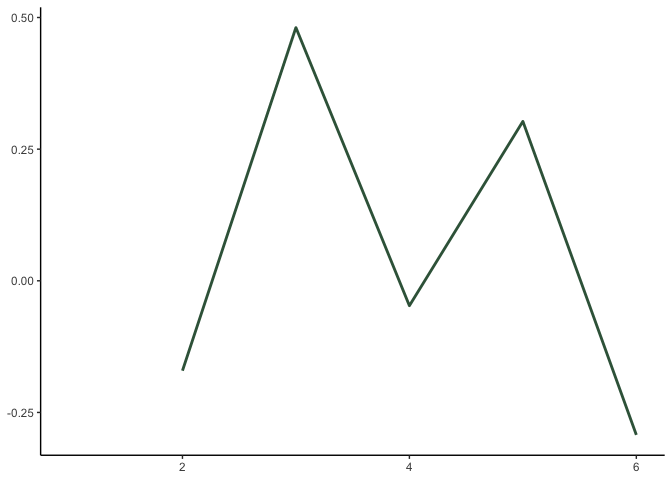
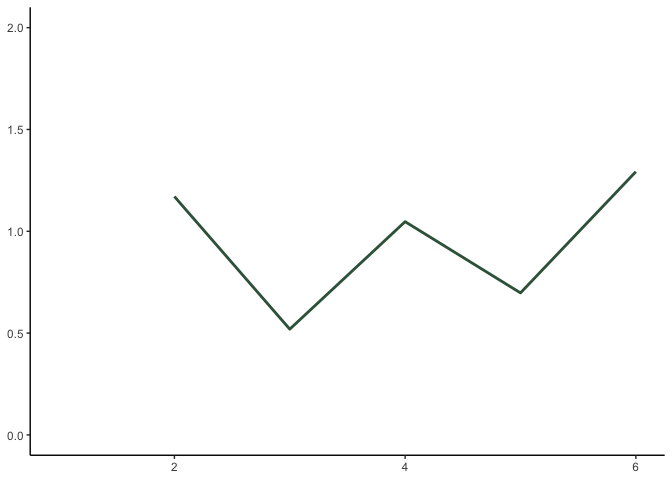
add flipped cosine to vignettee

diff --git a/docs/articles/BigramSemanticDistance-vignette.html b/docs/articles/BigramSemanticDistance-vignette.html
@@ -64,7 +64,7 @@
       <img src="" class="logo" alt=""><h1>BigramSemanticDistance-vignette</h1>
                         <h4 data-toc-skip class="author">Bonnie Zuckerman &amp; Jamie Reilly</h4>
             
-            <h4 data-toc-skip class="date">2022-03-02</h4>
+            <h4 data-toc-skip class="date">2022-03-24</h4>
       
       
       <div class="d-none name"><code>BigramSemanticDistance-vignette.Rmd</code></div>
@@ -73,38 +73,47 @@
     
     
 <div class="sourceCode" id="cb1"><pre class="sourceCode r"><code class="sourceCode r"><span id="cb1-1"><a href="#cb1-1" aria-hidden="true" tabindex="-1"></a>remotes<span class="sc">::</span><span class="fu">install_github</span>(<span class="st">"Reilly-ConceptsCognitionLab/semdistflow"</span>)</span>
-<span id="cb1-2"><a href="#cb1-2" aria-hidden="true" tabindex="-1"></a><span class="co">#&gt; </span></span>
-<span id="cb1-3"><a href="#cb1-3" aria-hidden="true" tabindex="-1"></a><span class="co">#&gt;   </span></span>
-<span id="cb1-4"><a href="#cb1-4" aria-hidden="true" tabindex="-1"></a>   checking <span class="cf">for</span> file ‘<span class="sc">/</span>private<span class="sc">/</span>var<span class="sc">/</span>folders<span class="sc">/</span>g0<span class="sc">/</span>mjy7jjt50v3cgv592cnt1pw40000gn<span class="sc">/</span>T<span class="sc">/</span>RtmpdJYAHR<span class="sc">/</span>remotes12cf64f6756f<span class="sc">/</span>Reilly<span class="sc">-</span>ConceptsCognitionLab<span class="sc">-</span>semdistflow<span class="sc">-</span>f88fe4f<span class="sc">/</span>DESCRIPTION’ ...</span>
-<span id="cb1-5"><a href="#cb1-5" aria-hidden="true" tabindex="-1"></a>  </span>
-<span id="cb1-6"><a href="#cb1-6" aria-hidden="true" tabindex="-1"></a> [32m✓ [39m   [<span class="dv">38</span>;<span class="dv">5</span>;247mchecking <span class="cf">for</span> file ‘<span class="sc">/</span>private<span class="sc">/</span>var<span class="sc">/</span>folders<span class="sc">/</span>g0<span class="sc">/</span>mjy7jjt50v3cgv592cnt1pw40000gn<span class="sc">/</span>T<span class="sc">/</span>RtmpdJYAHR<span class="sc">/</span>remotes12cf64f6756f<span class="sc">/</span>Reilly<span class="sc">-</span>ConceptsCognitionLab<span class="sc">-</span>semdistflow<span class="sc">-</span>f88fe4f<span class="sc">/</span>DESCRIPTION’ [39m [36m [36m (509ms) [36m [39m</span>
-<span id="cb1-7"><a href="#cb1-7" aria-hidden="true" tabindex="-1"></a><span class="co">#&gt; </span></span>
-<span id="cb1-8"><a href="#cb1-8" aria-hidden="true" tabindex="-1"></a>  </span>
-<span id="cb1-9"><a href="#cb1-9" aria-hidden="true" tabindex="-1"></a> [<span class="dv">38</span>;<span class="dv">5</span>;247m─ [39m [<span class="dv">38</span>;<span class="dv">5</span>;247m   [39m [<span class="dv">38</span>;<span class="dv">5</span>;247mpreparing ‘semdistflow’<span class="sc">:</span> [39m [36m [39m</span>
-<span id="cb1-10"><a href="#cb1-10" aria-hidden="true" tabindex="-1"></a><span class="co">#&gt;    checking DESCRIPTION meta-information ...</span></span>
-<span id="cb1-11"><a href="#cb1-11" aria-hidden="true" tabindex="-1"></a>  </span>
-<span id="cb1-12"><a href="#cb1-12" aria-hidden="true" tabindex="-1"></a> [32m✓ [39m   [<span class="dv">38</span>;<span class="dv">5</span>;247mchecking DESCRIPTION meta<span class="sc">-</span>information [39m [36m [39m</span>
-<span id="cb1-13"><a href="#cb1-13" aria-hidden="true" tabindex="-1"></a><span class="co">#&gt; </span></span>
+<span id="cb1-2"><a href="#cb1-2" aria-hidden="true" tabindex="-1"></a><span class="co">#&gt; sass    (0.4.0 -&gt; 0.4.1) [CRAN]</span></span>
+<span id="cb1-3"><a href="#cb1-3" aria-hidden="true" tabindex="-1"></a><span class="co">#&gt; fansi   (1.0.2 -&gt; 1.0.3) [CRAN]</span></span>
+<span id="cb1-4"><a href="#cb1-4" aria-hidden="true" tabindex="-1"></a><span class="co">#&gt; jmvcore (2.2   -&gt; 2.3.3) [CRAN]</span></span>
+<span id="cb1-5"><a href="#cb1-5" aria-hidden="true" tabindex="-1"></a><span class="co">#&gt; </span></span>
+<span id="cb1-6"><a href="#cb1-6" aria-hidden="true" tabindex="-1"></a><span class="co">#&gt;   There are binary versions available but the source versions are later:</span></span>
+<span id="cb1-7"><a href="#cb1-7" aria-hidden="true" tabindex="-1"></a><span class="co">#&gt;         binary source needs_compilation</span></span>
+<span id="cb1-8"><a href="#cb1-8" aria-hidden="true" tabindex="-1"></a><span class="co">#&gt; sass     0.4.0  0.4.1              TRUE</span></span>
+<span id="cb1-9"><a href="#cb1-9" aria-hidden="true" tabindex="-1"></a><span class="co">#&gt; fansi    1.0.2  1.0.3              TRUE</span></span>
+<span id="cb1-10"><a href="#cb1-10" aria-hidden="true" tabindex="-1"></a><span class="co">#&gt; jmvcore    2.2  2.3.3             FALSE</span></span>
+<span id="cb1-11"><a href="#cb1-11" aria-hidden="true" tabindex="-1"></a><span class="co">#&gt; </span></span>
+<span id="cb1-12"><a href="#cb1-12" aria-hidden="true" tabindex="-1"></a><span class="co">#&gt;   </span></span>
+<span id="cb1-13"><a href="#cb1-13" aria-hidden="true" tabindex="-1"></a>   checking <span class="cf">for</span> file ‘<span class="sc">/</span>private<span class="sc">/</span>var<span class="sc">/</span>folders<span class="sc">/</span>g0<span class="sc">/</span>mjy7jjt50v3cgv592cnt1pw40000gn<span class="sc">/</span>T<span class="sc">/</span>Rtmpz2fjsT<span class="sc">/</span>remotes50de68b3d2b6<span class="sc">/</span>Reilly<span class="sc">-</span>ConceptsCognitionLab<span class="sc">-</span>semdistflow<span class="sc">-</span>d8ee258<span class="sc">/</span>DESCRIPTION’ ...</span>
 <span id="cb1-14"><a href="#cb1-14" aria-hidden="true" tabindex="-1"></a>  </span>
-<span id="cb1-15"><a href="#cb1-15" aria-hidden="true" tabindex="-1"></a> [<span class="dv">38</span>;<span class="dv">5</span>;247m─ [39m [<span class="dv">38</span>;<span class="dv">5</span>;247m   [39m [<span class="dv">38</span>;<span class="dv">5</span>;247mchecking <span class="cf">for</span> LF line<span class="sc">-</span>endings <span class="cf">in</span> source and make files and shell scripts [39m [36m [39m</span>
+<span id="cb1-15"><a href="#cb1-15" aria-hidden="true" tabindex="-1"></a> [32m✓ [39m   [<span class="dv">38</span>;<span class="dv">5</span>;247mchecking <span class="cf">for</span> file ‘<span class="sc">/</span>private<span class="sc">/</span>var<span class="sc">/</span>folders<span class="sc">/</span>g0<span class="sc">/</span>mjy7jjt50v3cgv592cnt1pw40000gn<span class="sc">/</span>T<span class="sc">/</span>Rtmpz2fjsT<span class="sc">/</span>remotes50de68b3d2b6<span class="sc">/</span>Reilly<span class="sc">-</span>ConceptsCognitionLab<span class="sc">-</span>semdistflow<span class="sc">-</span>d8ee258<span class="sc">/</span>DESCRIPTION’ [39m [36m [36m (403ms) [36m [39m</span>
 <span id="cb1-16"><a href="#cb1-16" aria-hidden="true" tabindex="-1"></a><span class="co">#&gt; </span></span>
 <span id="cb1-17"><a href="#cb1-17" aria-hidden="true" tabindex="-1"></a>  </span>
-<span id="cb1-18"><a href="#cb1-18" aria-hidden="true" tabindex="-1"></a> [<span class="dv">38</span>;<span class="dv">5</span>;247m─ [39m [<span class="dv">38</span>;<span class="dv">5</span>;247m   [39m [<span class="dv">38</span>;<span class="dv">5</span>;247mchecking <span class="cf">for</span> empty or unneeded directories [39m [36m [39m</span>
-<span id="cb1-19"><a href="#cb1-19" aria-hidden="true" tabindex="-1"></a><span class="co">#&gt; </span></span>
+<span id="cb1-18"><a href="#cb1-18" aria-hidden="true" tabindex="-1"></a> [<span class="dv">38</span>;<span class="dv">5</span>;247m─ [39m [<span class="dv">38</span>;<span class="dv">5</span>;247m   [39m [<span class="dv">38</span>;<span class="dv">5</span>;247mpreparing ‘semdistflow’<span class="sc">:</span> [39m [36m [39m</span>
+<span id="cb1-19"><a href="#cb1-19" aria-hidden="true" tabindex="-1"></a><span class="co">#&gt;    checking DESCRIPTION meta-information ...</span></span>
 <span id="cb1-20"><a href="#cb1-20" aria-hidden="true" tabindex="-1"></a>  </span>
-<span id="cb1-21"><a href="#cb1-21" aria-hidden="true" tabindex="-1"></a> [<span class="dv">38</span>;<span class="dv">5</span>;247m─ [39m [<span class="dv">38</span>;<span class="dv">5</span>;247m   [39m [<span class="dv">38</span>;<span class="dv">5</span>;247mbuilding ‘semdistflow_0.<span class="dv">1</span>.<span class="fl">0.</span>tar.gz’ [39m [36m [39m</span>
+<span id="cb1-21"><a href="#cb1-21" aria-hidden="true" tabindex="-1"></a> [32m✓ [39m   [<span class="dv">38</span>;<span class="dv">5</span>;247mchecking DESCRIPTION meta<span class="sc">-</span>information [39m [36m [39m</span>
 <span id="cb1-22"><a href="#cb1-22" aria-hidden="true" tabindex="-1"></a><span class="co">#&gt; </span></span>
 <span id="cb1-23"><a href="#cb1-23" aria-hidden="true" tabindex="-1"></a>  </span>
-<span id="cb1-24"><a href="#cb1-24" aria-hidden="true" tabindex="-1"></a>   </span>
+<span id="cb1-24"><a href="#cb1-24" aria-hidden="true" tabindex="-1"></a> [<span class="dv">38</span>;<span class="dv">5</span>;247m─ [39m [<span class="dv">38</span>;<span class="dv">5</span>;247m   [39m [<span class="dv">38</span>;<span class="dv">5</span>;247mchecking <span class="cf">for</span> LF line<span class="sc">-</span>endings <span class="cf">in</span> source and make files and shell scripts [39m [36m [39m</span>
 <span id="cb1-25"><a href="#cb1-25" aria-hidden="true" tabindex="-1"></a><span class="co">#&gt; </span></span>
-<span id="cb1-26"><a href="#cb1-26" aria-hidden="true" tabindex="-1"></a><span class="fu">library</span>(semdistflow)</span>
-<span id="cb1-27"><a href="#cb1-27" aria-hidden="true" tabindex="-1"></a><span class="fu">library</span>(tidytext)</span>
-<span id="cb1-28"><a href="#cb1-28" aria-hidden="true" tabindex="-1"></a><span class="fu">library</span>(tidyverse)</span>
-<span id="cb1-29"><a href="#cb1-29" aria-hidden="true" tabindex="-1"></a><span class="fu">library</span>(knitr)</span>
-<span id="cb1-30"><a href="#cb1-30" aria-hidden="true" tabindex="-1"></a><span class="fu">library</span>(kableExtra)</span>
-<span id="cb1-31"><a href="#cb1-31" aria-hidden="true" tabindex="-1"></a><span class="fu">library</span>(stringr)</span>
-<span id="cb1-32"><a href="#cb1-32" aria-hidden="true" tabindex="-1"></a><span class="fu">library</span>(zoo)</span>
-<span id="cb1-33"><a href="#cb1-33" aria-hidden="true" tabindex="-1"></a><span class="fu">library</span>(stringi)</span></code></pre></div>
+<span id="cb1-26"><a href="#cb1-26" aria-hidden="true" tabindex="-1"></a>  </span>
+<span id="cb1-27"><a href="#cb1-27" aria-hidden="true" tabindex="-1"></a> [<span class="dv">38</span>;<span class="dv">5</span>;247m─ [39m [<span class="dv">38</span>;<span class="dv">5</span>;247m   [39m [<span class="dv">38</span>;<span class="dv">5</span>;247mchecking <span class="cf">for</span> empty or unneeded directories [39m [36m [39m</span>
+<span id="cb1-28"><a href="#cb1-28" aria-hidden="true" tabindex="-1"></a><span class="co">#&gt; </span></span>
+<span id="cb1-29"><a href="#cb1-29" aria-hidden="true" tabindex="-1"></a>  </span>
+<span id="cb1-30"><a href="#cb1-30" aria-hidden="true" tabindex="-1"></a> [<span class="dv">38</span>;<span class="dv">5</span>;247m─ [39m [<span class="dv">38</span>;<span class="dv">5</span>;247m   [39m [<span class="dv">38</span>;<span class="dv">5</span>;247mbuilding ‘semdistflow_0.<span class="dv">1</span>.<span class="fl">0.</span>tar.gz’ [39m [36m [39m</span>
+<span id="cb1-31"><a href="#cb1-31" aria-hidden="true" tabindex="-1"></a><span class="co">#&gt; </span></span>
+<span id="cb1-32"><a href="#cb1-32" aria-hidden="true" tabindex="-1"></a>  </span>
+<span id="cb1-33"><a href="#cb1-33" aria-hidden="true" tabindex="-1"></a>   </span>
+<span id="cb1-34"><a href="#cb1-34" aria-hidden="true" tabindex="-1"></a><span class="co">#&gt; </span></span>
+<span id="cb1-35"><a href="#cb1-35" aria-hidden="true" tabindex="-1"></a><span class="fu">library</span>(semdistflow)</span>
+<span id="cb1-36"><a href="#cb1-36" aria-hidden="true" tabindex="-1"></a><span class="fu">library</span>(tidytext)</span>
+<span id="cb1-37"><a href="#cb1-37" aria-hidden="true" tabindex="-1"></a><span class="fu">library</span>(tidyverse)</span>
+<span id="cb1-38"><a href="#cb1-38" aria-hidden="true" tabindex="-1"></a><span class="fu">library</span>(knitr)</span>
+<span id="cb1-39"><a href="#cb1-39" aria-hidden="true" tabindex="-1"></a><span class="fu">library</span>(kableExtra)</span>
+<span id="cb1-40"><a href="#cb1-40" aria-hidden="true" tabindex="-1"></a><span class="fu">library</span>(stringr)</span>
+<span id="cb1-41"><a href="#cb1-41" aria-hidden="true" tabindex="-1"></a><span class="fu">library</span>(zoo)</span>
+<span id="cb1-42"><a href="#cb1-42" aria-hidden="true" tabindex="-1"></a><span class="fu">library</span>(stringi)</span></code></pre></div>
 <div class="section level2">
 <h2 id="preparing-your-texts">Preparing your texts<a class="anchor" aria-label="anchor" href="#preparing-your-texts"></a>
 </h2>
@@ -122,8 +131,8 @@
 <span class="va">mytextsinfolder</span> <span class="op">&lt;-</span> <span class="fu"><a href="../reference/readtxt.html">readtxt</a></span><span class="op">(</span><span class="st">"./your-text-folder"</span><span class="op">)</span> <span class="co">#reads all texts in a given folder in the working directory </span></code></pre></div>
 <p>The resulting data.frame should have two columns “doc_id” and “doc_text”.</p>
 <pre><code><span class="co">#&gt;                                                                                                                                       doc_id</span>
-<span class="co">#&gt; 1 /private/var/folders/g0/mjy7jjt50v3cgv592cnt1pw40000gn/T/RtmpGGgozS/temp_libpathc972d350c55/semdistflow/extdata/Blake_BookofThel_part1.txt</span>
-<span class="co">#&gt; 2                /private/var/folders/g0/mjy7jjt50v3cgv592cnt1pw40000gn/T/RtmpGGgozS/temp_libpathc972d350c55/semdistflow/extdata/sticks2.txt</span>
+<span class="co">#&gt; 1 /private/var/folders/g0/mjy7jjt50v3cgv592cnt1pw40000gn/T/Rtmp0ZiBYT/temp_libpath4f755aed467/semdistflow/extdata/Blake_BookofThel_part1.txt</span>
+<span class="co">#&gt; 2                /private/var/folders/g0/mjy7jjt50v3cgv592cnt1pw40000gn/T/Rtmp0ZiBYT/temp_libpath4f755aed467/semdistflow/extdata/sticks2.txt</span>
 <span class="co">#&gt;                                                                                                                                                                                                                                                                                                                                                                                                                                                                                                                                                                                                                                                                                                                                                                                                                                                                                                                                                                                                                                                                                                                                                                                                                                                                                                                                                                                                                                                                                                                                                                                                                                                                                                                                                                                                                                                                                                                                                                                                                                                                                                                                                                                                                                                                                                                                                                                                                                                                                                                                                                                                                                                                                          doc_text</span>
 <span class="co">#&gt; 1 The daughters of Mne Seraphim led round their sunny flocks. All but the youngest; she in paleness sought the secret air.  To fade away like morning beauty from her mortal day:  Down by the river of Adona her soft voice is heard:  And thus her gentle lamentation falls like morning dew.   O life of this our spring! why fades the lotus of the water? Why fade these children of the spring? born but to smile &amp; fall.  Ah! Thel is like a watry bow. and like a parting cloud.  Like a reflection in a glass. like shadows in the water.  Like dreams of infants. like a smile upon an infants face, Like the doves voice, like transient day, like music in the air;  Ah! gentle may I lay me down, and gentle rest my head, And gentle sleep the sleep of death. and gentle hear the voice Of him that walketh in the garden in the evening time.  The Lilly of the valley breathing in the humble grass Answer'd the lovely maid and said: I am a watry weed, And I am very small, and love to dwell in lowly vales; So weak, the gilded butterfly scarce perches on my head.  Yet I am visited from heaven and he that smiles on all.  Walks in the valley. and each morn over me spreads his hand  Saying, rejoice thou humble grass, thou new-born lilly flower, Thou gentle maid of silent valleys. and of modest brooks; For thou shalt be clothed in light, and fed with morning manna:  Till summers heat melts thee beside the fountains and the springs To flourish in eternal vales: then why should Thel complain,   Why should the mistress of the vales of Har, utter a sigh.   She ceasd &amp; smild in tears, then sat down in her silver shrine.  Thel answered. O thou little virgin of the peaceful valley.  Giving to those that cannot crave, the voiceless, the o'ertired.  Thy breath doth nourish the innocent lamb, he smells thy milky garments, He crops thy flowers. while thou sittest smiling in his face, Wiping his mild and meekin mouth from all contagious taints. Thy wine doth purify the golden honey, thy perfume, Which thou dost scatter on every little blade of grass that springs, Revives the milked cow, &amp; tames the fire-breathing steed. But Thel is like a faint cloud kindled at the rising sun: I vanish from my pearly throne, and who shall find my place?"  "Queen of the vales," the Lily answered, "ask the tender cloud, And it shall tell thee why it glitters in the morning sky, And why it scatters its bright beauty thro' the humid air. Descend, O little cloud, &amp; hover before the eyes of Thel."  The Cloud descended, and the Lily bowd her modest head, And went to mind her numerous charge among the verdant grass.</span>
 <span class="co">#&gt; 2                                                                                                                                                                                                                                                                                                                                                                                                                                                                                                                                          Every year Thanksgiving night we flocked out behind Dad as he dragged the Santa suit to the road and draped it over a kind of crucifix he'd built out of metal pole in the yard. Super Bowl week the pole was dressed in a jersey and Rod's helmet and Rod had to clear it with Dad if he wanted to take the helmet off. On the Fourth of July the pole was Uncle Sam, on Veteran’s Day a soldier,  on Halloween a ghost. The pole was Dad's only concession to glee. We were allowed a single Crayola from the box at a time. One Christmas Eve he shrieked at Kimmie for wasting an apple slice. He hovered over us as we poured ketchup saying: good enough good enough good enough. Birthday parties consisted of cupcakes, no ice cream. The first time I brought a date over she said: what's with your dad and that pole? and I sat there blinking. We left home, married,  had children of our own, found the seeds of meanness blooming also within us. Dad began dressing the pole with more complexity and less discernible logic. He draped some kind of fur over it on Groundhog Day and lugged out a floodlight to ensure a shadow. When an earthquake struck Chile he lay the pole on its side and spray painted a rift in the earth. Mom died and he dressed the pole as Death and hung from the crossbar photos of Mom as a baby. We'd stop by and find odd talismans from his youth arranged around the base: army medals, theater tickets, old sweatshirts, tubes of Mom's makeup. One autumn he painted the pole bright yellow. He covered it with cotton swabs that winter for warmth and provided offspring by hammering in six crossed sticks around the yard. He ran lengths of string between the pole and the sticks, and taped to the string letters of apology, admissions of error, pleas for understanding, all written in a frantic hand on index cards. He painted a sign saying LOVE and hung it from the pole and another that said FORGIVE? and then he died in the hall with the radio on and we sold the house to a young couple who yanked out the pole and the sticks and left them by the road on garbage day.</span></code></pre>
@@ -161,12 +170,12 @@
 <span class="co">#&gt; <span style="color: #949494;"># Groups:   doc_id [1]</span></span>
 <span class="co">#&gt;   doc_id                                                             word  lemma</span>
 <span class="co">#&gt;   <span style="color: #949494; font-style: italic;">&lt;chr&gt;</span>                                                              <span style="color: #949494; font-style: italic;">&lt;chr&gt;</span> <span style="color: #949494; font-style: italic;">&lt;chr&gt;</span></span>
-<span class="co">#&gt; <span style="color: #BCBCBC;">1</span> /private/var/folders/g0/mjy7jjt50v3cgv592cnt1pw40000gn/T/RtmpGGgo… daug… daug…</span>
-<span class="co">#&gt; <span style="color: #BCBCBC;">2</span> /private/var/folders/g0/mjy7jjt50v3cgv592cnt1pw40000gn/T/RtmpGGgo… mne   mne  </span>
-<span class="co">#&gt; <span style="color: #BCBCBC;">3</span> /private/var/folders/g0/mjy7jjt50v3cgv592cnt1pw40000gn/T/RtmpGGgo… sera… sera…</span>
-<span class="co">#&gt; <span style="color: #BCBCBC;">4</span> /private/var/folders/g0/mjy7jjt50v3cgv592cnt1pw40000gn/T/RtmpGGgo… led   lead </span>
-<span class="co">#&gt; <span style="color: #BCBCBC;">5</span> /private/var/folders/g0/mjy7jjt50v3cgv592cnt1pw40000gn/T/RtmpGGgo… round round</span>
-<span class="co">#&gt; <span style="color: #BCBCBC;">6</span> /private/var/folders/g0/mjy7jjt50v3cgv592cnt1pw40000gn/T/RtmpGGgo… their their</span></code></pre>
+<span class="co">#&gt; <span style="color: #BCBCBC;">1</span> /private/var/folders/g0/mjy7jjt50v3cgv592cnt1pw40000gn/T/Rtmp0ZiB… daug… daug…</span>
+<span class="co">#&gt; <span style="color: #BCBCBC;">2</span> /private/var/folders/g0/mjy7jjt50v3cgv592cnt1pw40000gn/T/Rtmp0ZiB… mne   mne  </span>
+<span class="co">#&gt; <span style="color: #BCBCBC;">3</span> /private/var/folders/g0/mjy7jjt50v3cgv592cnt1pw40000gn/T/Rtmp0ZiB… sera… sera…</span>
+<span class="co">#&gt; <span style="color: #BCBCBC;">4</span> /private/var/folders/g0/mjy7jjt50v3cgv592cnt1pw40000gn/T/Rtmp0ZiB… led   lead </span>
+<span class="co">#&gt; <span style="color: #BCBCBC;">5</span> /private/var/folders/g0/mjy7jjt50v3cgv592cnt1pw40000gn/T/Rtmp0ZiB… round round</span>
+<span class="co">#&gt; <span style="color: #BCBCBC;">6</span> /private/var/folders/g0/mjy7jjt50v3cgv592cnt1pw40000gn/T/Rtmp0ZiB… their their</span></code></pre>
 </div>
 <div class="section level2">
 <h2 id="between-word-distance-calculations">Between Word Distance Calculations<a class="anchor" aria-label="anchor" href="#between-word-distance-calculations"></a>

diff --git a/docs/index.html b/docs/index.html
@@ -64,7 +64,7 @@
 <div class="section level2">
 <h2 id="overview">Overview<a class="anchor" aria-label="anchor" href="#overview"></a>
 </h2>
-<p>‘semdistflow’ transforms any user-specified text into sequential bigrams (e.g. ‘The dog drinks the milk’ to dog-drink, drink-milk, etc.). The package then computes two metrics of semantic distance for each bigram. Users have many options for parameterizing semantic distance and tailoring their analyses to their own unique constraints (e.g., omitting stopwords, lemmatizing tokens, dimensionality of word embeddings).</p>
+<p>‘semdistflow’ transforms any user-specified text into sequential bigrams (e.g. ‘The dog drinks the milk’ to dog-drink, drink-milk, etc.). The package can compute metrics of semantic distance for each bigram. Users have many options for parameterizing semantic distance and tailoring their analyses to their own unique constraints (e.g., omitting stopwords, lemmatizing tokens, dimensionality of word embeddings).</p>
 </div>
 <div class="section level2">
 <h2 id="installation">Installation<a class="anchor" aria-label="anchor" href="#installation"></a>
@@ -72,7 +72,9 @@
 <p>You can install the development version of semdistflow from <a href="https://github.com/" class="external-link">GitHub</a> with:</p>
 <div class="sourceCode" id="cb1"><pre class="downlit sourceCode r">
 <code class="sourceCode R"><span class="co"># install.packages("devtools")</span>
-<span class="fu">devtools</span><span class="fu">::</span><span class="fu"><a href="https://devtools.r-lib.org/reference/remote-reexports.html" class="external-link">install_github</a></span><span class="op">(</span><span class="st">"Reilly-ConceptsCognitionLab/semdistflow"</span><span class="op">)</span></code></pre></div>
+<span class="fu">devtools</span><span class="fu">::</span><span class="fu"><a href="https://devtools.r-lib.org/reference/remote-reexports.html" class="external-link">install_github</a></span><span class="op">(</span><span class="st">"Reilly-ConceptsCognitionLab/semdistflow"</span><span class="op">)</span>
+<span class="co">#&gt; Skipping install of 'semdistflow' from a github remote, the SHA1 (d8ee2589) has not changed since last install.</span>
+<span class="co">#&gt;   Use `force = TRUE` to force installation</span></code></pre></div>
 </div>
 <div class="section level2">
 <h2 id="example-of-cleaning-function">Example of Cleaning Function<a class="anchor" aria-label="anchor" href="#example-of-cleaning-function"></a>
@@ -139,7 +141,7 @@
 <span class="co">#&gt; 5 fox    The quick brown fox jumps over the lazy dog. " quick brown… lazy  lazy </span>
 <span class="co">#&gt; 6 fox    The quick brown fox jumps over the lazy dog. " quick brown… dog   dog</span></code></pre></div>
 <div class="sourceCode" id="cb5"><pre class="downlit sourceCode r">
-<code class="sourceCode R"><span class="va">fox_dist</span> <span class="op">&lt;-</span>  <span class="fu"><a href="reference/bigram_cos_sim.html">bigram_cos_sim</a></span><span class="op">(</span>targetdf <span class="op">=</span> <span class="va">fox_token</span>, lookupdb <span class="op">=</span> <span class="va">semdist15</span>, colname1 <span class="op">=</span> <span class="va">lemma</span>, colname2 <span class="op">=</span> <span class="va">word</span><span class="op">)</span>
+<code class="sourceCode R"><span class="va">fox_dist</span> <span class="op">&lt;-</span>  <span class="fu"><a href="reference/bigram_cos_sim.html">bigram_cos_sim</a></span><span class="op">(</span>targetdf <span class="op">=</span> <span class="va">fox_token</span>, lookupdb <span class="op">=</span> <span class="va">semdist15</span>, colname1 <span class="op">=</span> <span class="va">lemma</span>, colname2 <span class="op">=</span> <span class="va">word</span>, flipped <span class="op">=</span> <span class="cn">T</span><span class="op">)</span>
 <span class="co">#&gt; Isolating join columns</span>
 <span class="co">#&gt; Adding missing grouping variables: `doc_text`</span>
 <span class="co">#&gt; Joining data + print</span>
@@ -147,17 +149,17 @@
 <span class="co">#&gt; Writing output dataframe</span>
 
 <span class="va">fox_dist</span>
-<span class="co">#&gt; # A tibble: 6 × 7</span>
-<span class="co">#&gt;   doc_id doc_text                  doc_clean word  lemma_pair1 lemma cosine.dist</span>
-<span class="co">#&gt;   &lt;chr&gt;  &lt;chr&gt;                     &lt;chr&gt;     &lt;chr&gt; &lt;chr&gt;       &lt;chr&gt;       &lt;dbl&gt;</span>
-<span class="co">#&gt; 1 fox    The quick brown fox jump… " quick … quick &lt;NA&gt;        quick     NA     </span>
-<span class="co">#&gt; 2 fox    The quick brown fox jump… " quick … brown quick       brown     -0.171 </span>
-<span class="co">#&gt; 3 fox    The quick brown fox jump… " quick … fox   brown       fox        0.481 </span>
-<span class="co">#&gt; 4 fox    The quick brown fox jump… " quick … jumps fox         jump      -0.0473</span>
-<span class="co">#&gt; 5 fox    The quick brown fox jump… " quick … lazy  jump        lazy       0.303 </span>
-<span class="co">#&gt; 6 fox    The quick brown fox jump… " quick … dog   lazy        dog       -0.293</span></code></pre></div>
+<span class="co">#&gt; # A tibble: 6 × 8</span>
+<span class="co">#&gt;   doc_id doc_text doc_clean word  lemma_pair1 lemma cosine.dist flipped_cosine.…</span>
+<span class="co">#&gt;   &lt;chr&gt;  &lt;chr&gt;    &lt;chr&gt;     &lt;chr&gt; &lt;chr&gt;       &lt;chr&gt;       &lt;dbl&gt;            &lt;dbl&gt;</span>
+<span class="co">#&gt; 1 fox    The qui… " quick … quick &lt;NA&gt;        quick     NA                NA    </span>
+<span class="co">#&gt; 2 fox    The qui… " quick … brown quick       brown     -0.171             1.17 </span>
+<span class="co">#&gt; 3 fox    The qui… " quick … fox   brown       fox        0.481             0.519</span>
+<span class="co">#&gt; 4 fox    The qui… " quick … jumps fox         jump      -0.0473            1.05 </span>
+<span class="co">#&gt; 5 fox    The qui… " quick … lazy  jump        lazy       0.303             0.697</span>
+<span class="co">#&gt; 6 fox    The qui… " quick … dog   lazy        dog       -0.293             1.29</span></code></pre></div>
 <div class="sourceCode" id="cb6"><pre class="downlit sourceCode r">
-<code class="sourceCode R"><span class="fu"><a href="https://ggplot2.tidyverse.org/reference/ggplot.html" class="external-link">ggplot</a></span><span class="op">(</span><span class="va">fox_dist</span>, <span class="fu"><a href="https://ggplot2.tidyverse.org/reference/aes.html" class="external-link">aes</a></span><span class="op">(</span>x<span class="op">=</span><span class="fu"><a href="https://rdrr.io/r/base/numeric.html" class="external-link">as.numeric</a></span><span class="op">(</span><span class="fu"><a href="https://rdrr.io/r/base/row.names.html" class="external-link">row.names</a></span><span class="op">(</span><span class="va">fox_dist</span><span class="op">)</span><span class="op">)</span>, y<span class="op">=</span><span class="va">cosine.dist</span><span class="op">)</span><span class="op">)</span> <span class="op">+</span>  <span class="fu"><a href="https://ggplot2.tidyverse.org/reference/geom_path.html" class="external-link">geom_line</a></span><span class="op">(</span>color<span class="op">=</span><span class="st">"#02401BD9"</span>, size<span class="op">=</span> <span class="fl">1</span><span class="op">)</span> <span class="op">+</span> <span class="fu"><a href="https://ggplot2.tidyverse.org/reference/ggtheme.html" class="external-link">theme_classic</a></span><span class="op">(</span><span class="op">)</span> <span class="op">+</span> <span class="fu"><a href="https://ggplot2.tidyverse.org/reference/labs.html" class="external-link">xlab</a></span><span class="op">(</span><span class="cn">NULL</span><span class="op">)</span> <span class="op">+</span> <span class="fu"><a href="https://ggplot2.tidyverse.org/reference/labs.html" class="external-link">ylab</a></span><span class="op">(</span><span class="cn">NULL</span><span class="op">)</span>
+<code class="sourceCode R"><span class="fu"><a href="https://ggplot2.tidyverse.org/reference/ggplot.html" class="external-link">ggplot</a></span><span class="op">(</span><span class="va">fox_dist</span>, <span class="fu"><a href="https://ggplot2.tidyverse.org/reference/aes.html" class="external-link">aes</a></span><span class="op">(</span>x<span class="op">=</span><span class="fu"><a href="https://rdrr.io/r/base/numeric.html" class="external-link">as.numeric</a></span><span class="op">(</span><span class="fu"><a href="https://rdrr.io/r/base/row.names.html" class="external-link">row.names</a></span><span class="op">(</span><span class="va">fox_dist</span><span class="op">)</span><span class="op">)</span>, y<span class="op">=</span><span class="va">flipped_cosine.dist</span><span class="op">)</span><span class="op">)</span> <span class="op">+</span>  <span class="fu"><a href="https://ggplot2.tidyverse.org/reference/geom_path.html" class="external-link">geom_line</a></span><span class="op">(</span>color<span class="op">=</span><span class="st">"#02401BD9"</span>, size<span class="op">=</span> <span class="fl">1</span><span class="op">)</span> <span class="op">+</span> <span class="fu"><a href="https://ggplot2.tidyverse.org/reference/ggtheme.html" class="external-link">theme_classic</a></span><span class="op">(</span><span class="op">)</span> <span class="op">+</span> <span class="fu"><a href="https://ggplot2.tidyverse.org/reference/lims.html" class="external-link">ylim</a></span><span class="op">(</span><span class="fl">0</span>,<span class="fl">2</span><span class="op">)</span> <span class="op">+</span> <span class="fu"><a href="https://ggplot2.tidyverse.org/reference/labs.html" class="external-link">xlab</a></span><span class="op">(</span><span class="cn">NULL</span><span class="op">)</span> <span class="op">+</span> <span class="fu"><a href="https://ggplot2.tidyverse.org/reference/labs.html" class="external-link">ylab</a></span><span class="op">(</span><span class="cn">NULL</span><span class="op">)</span>  
 <span class="co">#&gt; Warning: Removed 1 row(s) containing missing values (geom_path).</span></code></pre></div>
 <p><img src="reference/figures/README-plot-1.png" width="100%"></p>
 </div>

diff --git a/docs/reference/bigram_cos_sim.html b/docs/reference/bigram_cos_sim.html
@@ -52,7 +52,8 @@
   targetdf <span class="op">=</span> <span class="va">x</span>,
   lookupdb <span class="op">=</span> <span class="va">wordvec</span>,
   colname1 <span class="op">=</span> <span class="cn">NULL</span>,
-  colname2 <span class="op">=</span> <span class="cn">NULL</span>
+  colname2 <span class="op">=</span> <span class="cn">NULL</span>,
+  flipped <span class="op">=</span> <span class="cn">FALSE</span>
 <span class="op">)</span></code></pre></div>
     </div>
 

diff --git a/README.md b/README.md
@@ -10,9 +10,9 @@
 
 ‘semdistflow’ transforms any user-specified text into sequential bigrams
 (e.g. ‘The dog drinks the milk’ to dog-drink, drink-milk, etc.). The
-package then computes two metrics of semantic distance for each bigram.
-Users have many options for parameterizing semantic distance and
-tailoring their analyses to their own unique constraints (e.g., omitting
+package can compute metrics of semantic distance for each bigram. Users
+have many options for parameterizing semantic distance and tailoring
+their analyses to their own unique constraints (e.g., omitting
 stopwords, lemmatizing tokens, dimensionality of word embeddings).
 
 ## Installation
@@ -23,6 +23,8 @@ You can install the development version of semdistflow from
 ``` r
 # install.packages("devtools")
 devtools::install_github("Reilly-ConceptsCognitionLab/semdistflow")
+#> Skipping install of 'semdistflow' from a github remote, the SHA1 (d8ee2589) has not changed since last install.
+#>   Use `force = TRUE` to force installation
 ```
 
 ## Example of Cleaning Function
@@ -95,7 +97,7 @@ fox_token
 ```
 
 ``` r
-fox_dist <-  bigram_cos_sim(targetdf = fox_token, lookupdb = semdist15, colname1 = lemma, colname2 = word)
+fox_dist <-  bigram_cos_sim(targetdf = fox_token, lookupdb = semdist15, colname1 = lemma, colname2 = word, flipped = T)
 #> Isolating join columns
 #> Adding missing grouping variables: `doc_text`
 #> Joining data + print
@@ -103,19 +105,19 @@ fox_dist <-  bigram_cos_sim(targetdf = fox_token, lookupdb = semdist15, colname1
 #> Writing output dataframe
 
 fox_dist
-#> # A tibble: 6 × 7
-#>   doc_id doc_text                  doc_clean word  lemma_pair1 lemma cosine.dist
-#>   <chr>  <chr>                     <chr>     <chr> <chr>       <chr>       <dbl>
-#> 1 fox    The quick brown fox jump… " quick … quick <NA>        quick     NA     
-#> 2 fox    The quick brown fox jump… " quick … brown quick       brown     -0.171 
-#> 3 fox    The quick brown fox jump… " quick … fox   brown       fox        0.481 
-#> 4 fox    The quick brown fox jump… " quick … jumps fox         jump      -0.0473
-#> 5 fox    The quick brown fox jump… " quick … lazy  jump        lazy       0.303 
-#> 6 fox    The quick brown fox jump… " quick … dog   lazy        dog       -0.293
+#> # A tibble: 6 × 8
+#>   doc_id doc_text doc_clean word  lemma_pair1 lemma cosine.dist flipped_cosine.…
+#>   <chr>  <chr>    <chr>     <chr> <chr>       <chr>       <dbl>            <dbl>
+#> 1 fox    The qui… " quick … quick <NA>        quick     NA                NA    
+#> 2 fox    The qui… " quick … brown quick       brown     -0.171             1.17 
+#> 3 fox    The qui… " quick … fox   brown       fox        0.481             0.519
+#> 4 fox    The qui… " quick … jumps fox         jump      -0.0473            1.05 
+#> 5 fox    The qui… " quick … lazy  jump        lazy       0.303             0.697
+#> 6 fox    The qui… " quick … dog   lazy        dog       -0.293             1.29
 ```
 
 ``` r
-ggplot(fox_dist, aes(x=as.numeric(row.names(fox_dist)), y=cosine.dist)) +  geom_line(color="#02401BD9", size= 1) + theme_classic() + xlab(NULL) + ylab(NULL)
+ggplot(fox_dist, aes(x=as.numeric(row.names(fox_dist)), y=flipped_cosine.dist)) +  geom_line(color="#02401BD9", size= 1) + theme_classic() + ylim(0,2) + xlab(NULL) + ylab(NULL)  
 #> Warning: Removed 1 row(s) containing missing values (geom_path).
 ```
 
